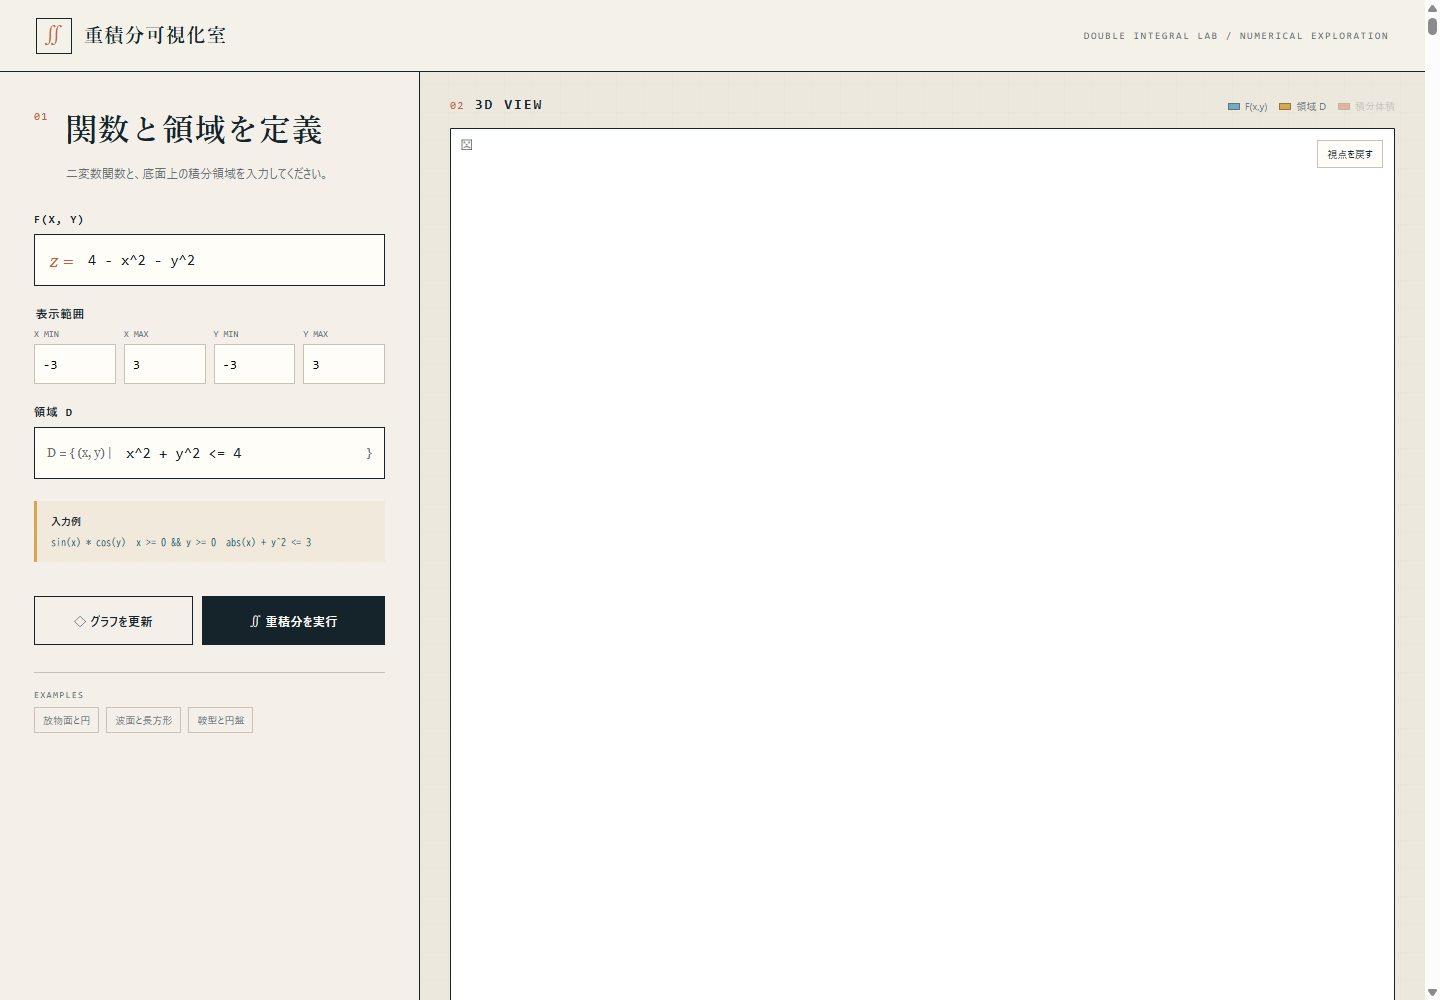
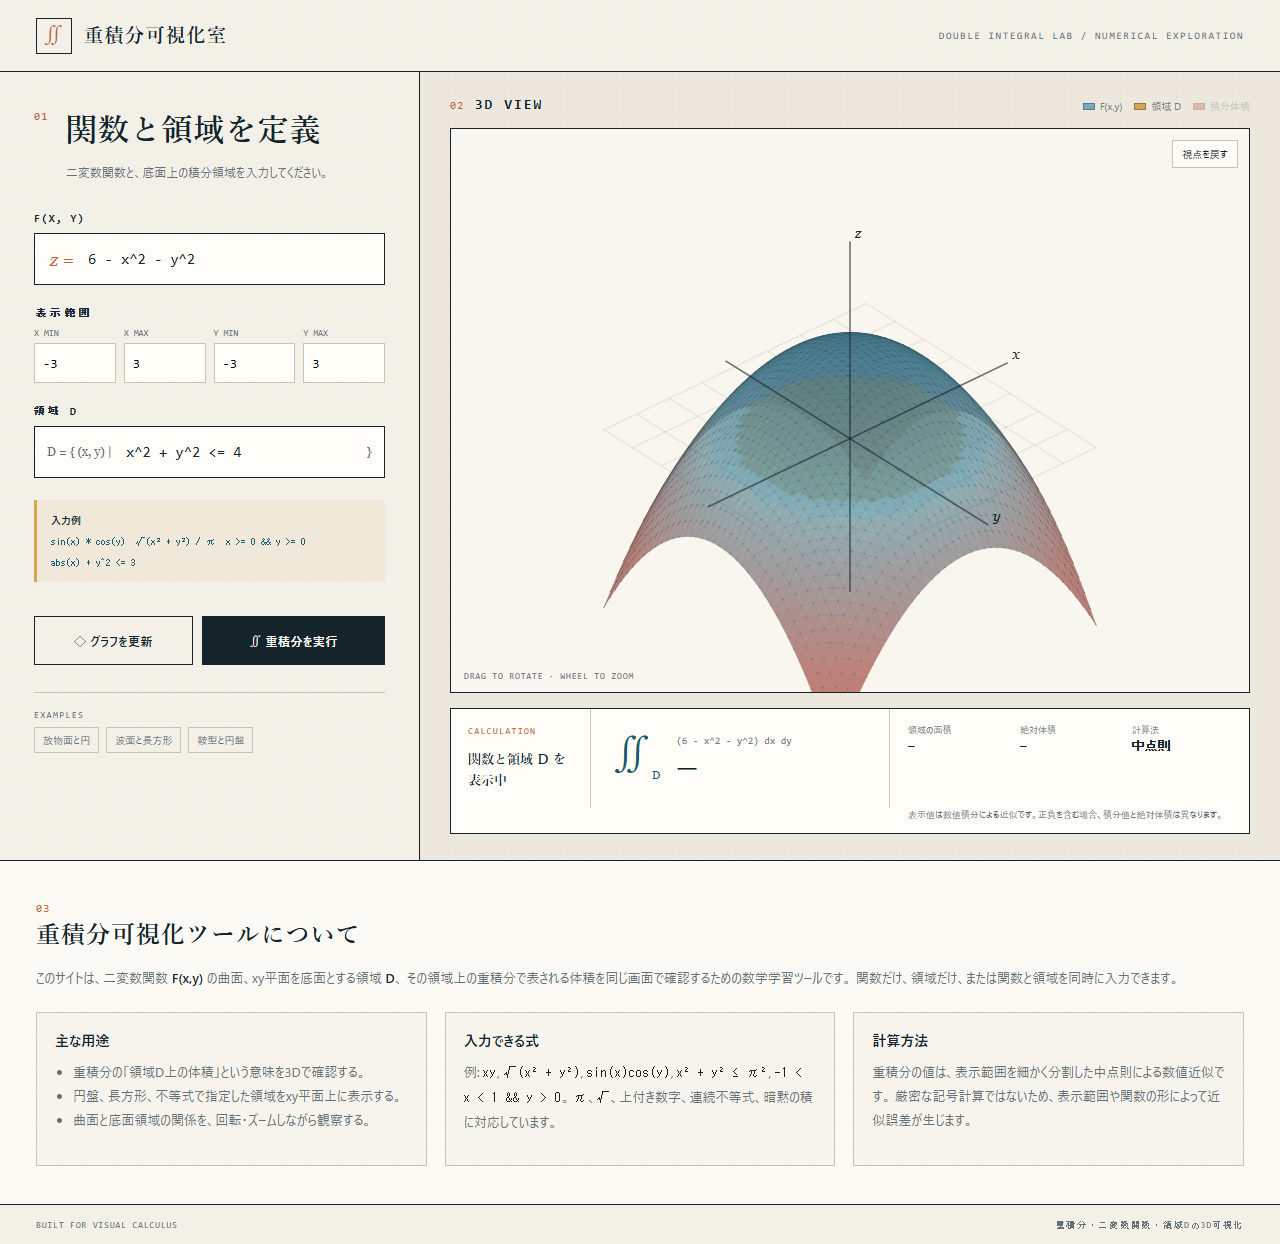
fix: raise default paraboloid graph

diff --git a/index.html b/index.html
@@ -80,7 +80,7 @@
           <span class="field-label">F(x, y)</span>
           <span class="math-input-wrap">
             <span class="math-prefix">z =</span>
-            <input id="function-input" type="text" value="4 - x^2 - y^2" spellcheck="false" autocomplete="off">
+            <input id="function-input" type="text" value="6 - x^2 - y^2" spellcheck="false" autocomplete="off">
           </span>
         </label>
 
@@ -168,7 +168,7 @@
         <div class="result-main">
           <span class="integral-symbol">∬<sub>D</sub></span>
           <div>
-            <span id="result-expression">(4 - x² - y²) dx dy</span>
+            <span id="result-expression">(6 - x² - y²) dx dy</span>
             <strong id="integral-result">—</strong>
           </div>
         </div>

diff --git a/app.js b/app.js
@@ -840,7 +840,7 @@ elements.canvas.addEventListener("wheel", (event) => {
 }, { passive: false });
 
 const exampleValues = {
-  paraboloid: { fn: "4 - x^2 - y^2", region: "x^2 + y^2 <= 4", range: [-3, 3, -3, 3] },
+  paraboloid: { fn: "6 - x^2 - y^2", region: "x^2 + y^2 <= 4", range: [-3, 3, -3, 3] },
   wave: { fn: "sin(x) * cos(y) + 1", region: "abs(x) <= pi && abs(y) <= pi/2", range: [-4, 4, -3, 3] },
   saddle: { fn: "x^2 - y^2", region: "x^2 + y^2 <= 4", range: [-3, 3, -3, 3] }
 };

diff --git a/README.md b/README.md
@@ -19,7 +19,7 @@ GitHub Pages以外、または独自ドメインで公開する場合は、canon
 
 ## 入力
 
-- 関数: `4 - x^2 - y^2`, `sin(x) * cos(y)` など
+- 関数: `6 - x^2 - y^2`, `sin(x) * cos(y)` など
 - 領域: `x^2 + y^2 <= 4`, `x >= 0 && y >= 0` など
 - 対応関数: `sin`, `cos`, `tan`, `sqrt`, `abs`, `exp`, `log`, `min`, `max`, `pow` ほか
 - 定数: `pi`, `e`
